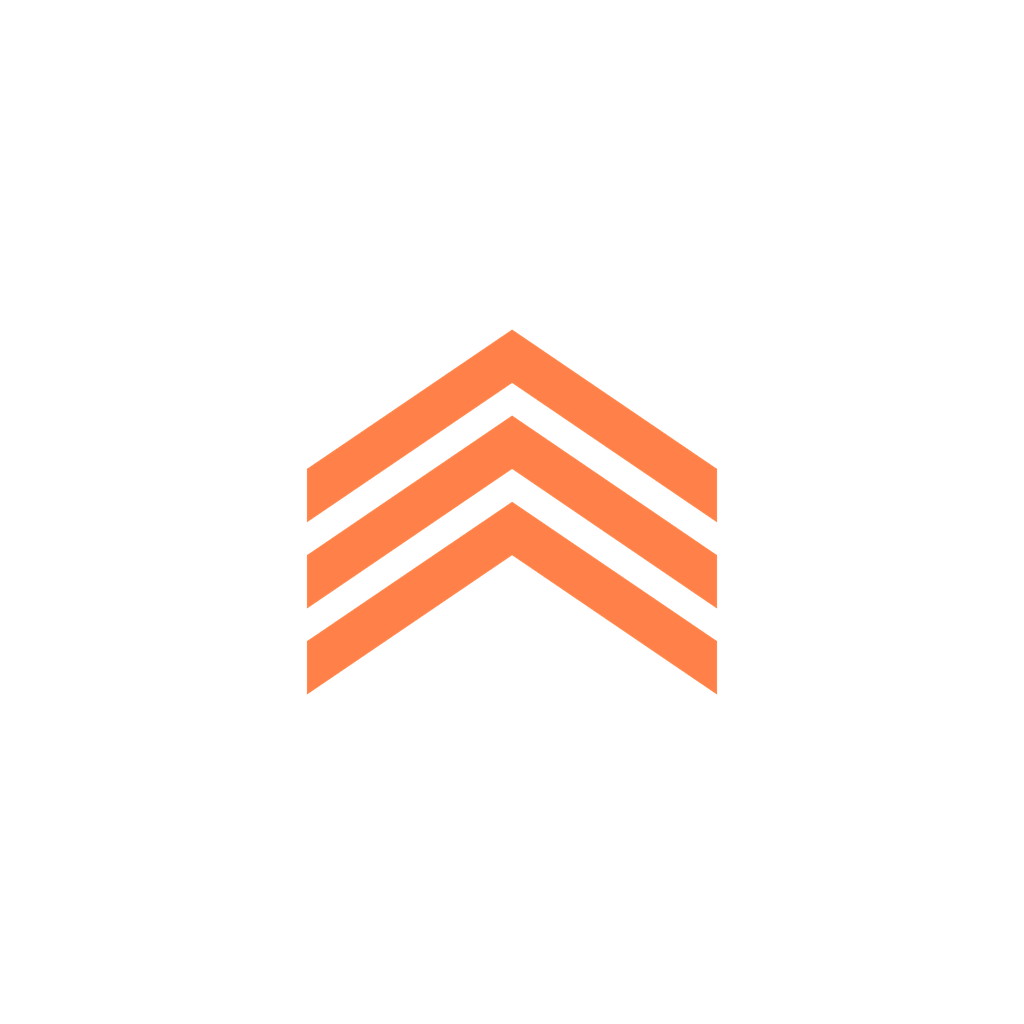
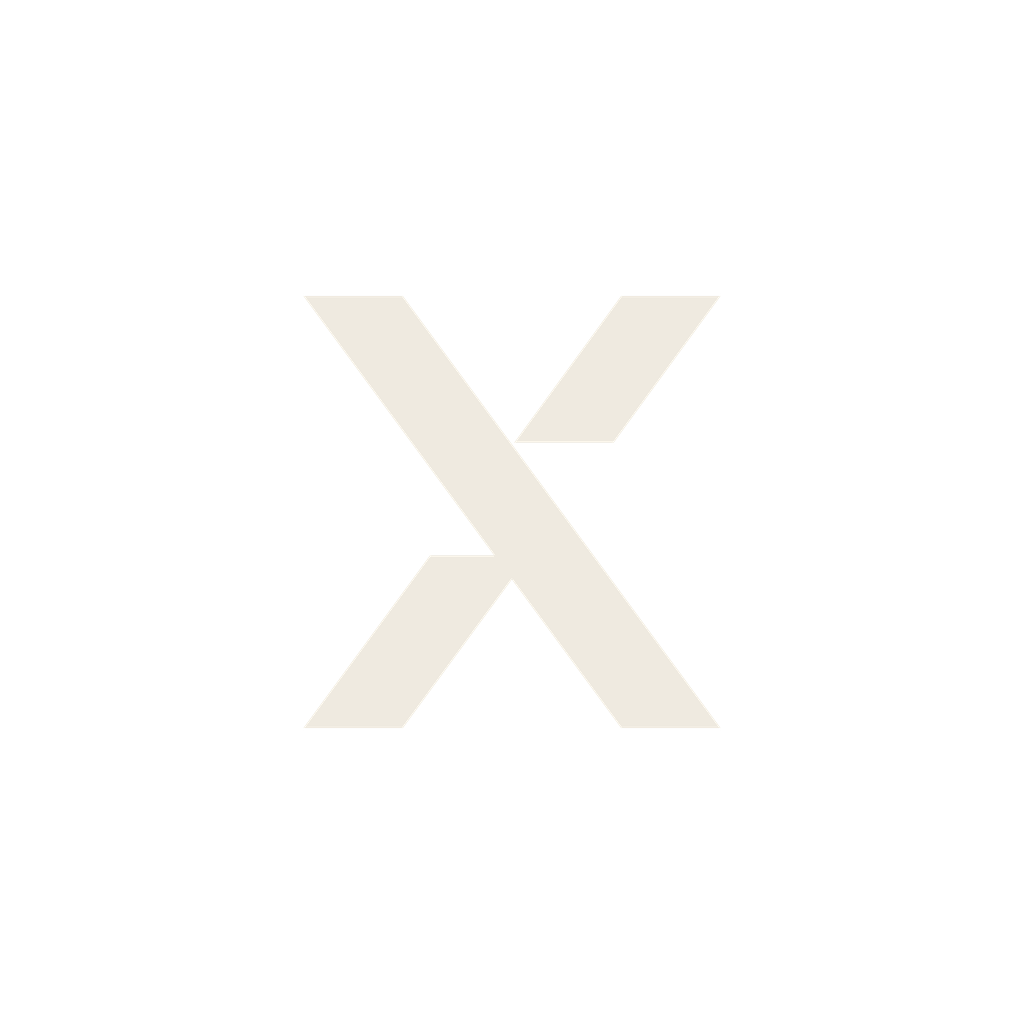
Marca INPHAX: Missão EEAR, um curso INPHAX
- Paleta preto, off-white e vermelho (#C8102E no claro, #FF4D5A no escuro),
  com o topo preto nos dois temas, o X e o logotipo INPHAX.
- Ícones do site e do app gerados do X em vetor (web/icones/gerar_icones.py).
- Página de entrada, rodapé e certificado com a marca (emitido pela INPHAX).
- Inglês passa a roxo, para não se confundir com o vermelho da marca.

Claude-Session: https://claude.ai/code/session_01PvJMkPWWFzBkqjvnPEBZ7K

Changed region(s): [[0.2812, 0.2812, 0.7188, 0.7188]]

diff --git a/curso/index.html b/curso/index.html
@@ -6,23 +6,25 @@
 <style>
 /* Layout: app de estudo mobile-first — cabeçalho tipo painel de voo, conteúdo em coluna única (máx. 760px), barra de abas fixa embaixo no celular e no topo em telas largas. */
 :root {
-  --bg: #EDF1F6;
+  --bg: #F3F1EC;
   --surface: #FFFFFF;
-  --surface-2: #F5F8FB;
-  --ink: #0E1F36;
-  --muted: #56667C;
-  --line: #D2DBE6;
-  --accent: #C2410C;
-  --accent-soft: #FBE7DC;
+  --surface-2: #F7F5F0;
+  --ink: #0C0C0C;
+  --muted: #5F5B54;
+  --line: #DEDAD1;
+  --accent: #C8102E;
+  --accent-soft: #FBE4E7;
   --on-accent: #FFFFFF;
+  /* topo com a marca INPHAX: preto nos dois temas */
+  --top-bg: #0C0C0C; --top-ink: #EFEAE0; --top-muted: #A39E94; --top-accent: #FF4D5A; --top-line: #262421;
   --ok: #19744A;
   --ok-soft: #DDF2E6;
-  --bad: #B42318;
+  --bad: #A8201A;
   --bad-soft: #FBE4E1;
   --warn: #9A5B00;
   --warn-soft: #FBEFD6;
   --por: #2F55C9;
-  --ing: #A23A68;
+  --ing: #7A3FC4;
   --mat: #0E766F;
   --fis: #8C5F00;
   --display: "Saira Condensed", "Arial Narrow", "Roboto Condensed", sans-serif;
@@ -33,34 +35,38 @@
 }
 @media (prefers-color-scheme: dark) {
   :root:not([data-theme="light"]) {
-    --bg: #0A1424; --surface: #111D31; --surface-2: #16243B; --ink: #E4EBF5; --muted: #93A2B7; --line: #24344D;
-    --accent: #FF8048; --accent-soft: #3A2117; --on-accent: #1A0D06;
+    --bg: #0C0C0C; --surface: #151515; --surface-2: #1D1D1D; --ink: #EFEAE0; --muted: #A39E94; --line: #2B2926;
+    --accent: #FF4D5A; --accent-soft: #3A1418; --on-accent: #160304;
     --ok: #46C98A; --ok-soft: #12301F; --bad: #FF7466; --bad-soft: #3A1714; --warn: #F0B54A; --warn-soft: #33270F;
-    --por: #8AA8FF; --ing: #EE8DB9; --mat: #4FD0C4; --fis: #E9BC52;
+    --por: #8AA8FF; --ing: #B79BFF; --mat: #4FD0C4; --fis: #E9BC52;
     color-scheme: dark;
   }
 }
 :root[data-theme="dark"] {
-  --bg: #0A1424; --surface: #111D31; --surface-2: #16243B; --ink: #E4EBF5; --muted: #93A2B7; --line: #24344D;
-  --accent: #FF8048; --accent-soft: #3A2117; --on-accent: #1A0D06;
+  --bg: #0C0C0C; --surface: #151515; --surface-2: #1D1D1D; --ink: #EFEAE0; --muted: #A39E94; --line: #2B2926;
+  --accent: #FF4D5A; --accent-soft: #3A1418; --on-accent: #160304;
   --ok: #46C98A; --ok-soft: #12301F; --bad: #FF7466; --bad-soft: #3A1714; --warn: #F0B54A; --warn-soft: #33270F;
-  --por: #8AA8FF; --ing: #EE8DB9; --mat: #4FD0C4; --fis: #E9BC52;
+  --por: #8AA8FF; --ing: #B79BFF; --mat: #4FD0C4; --fis: #E9BC52;
   color-scheme: dark;
 }
 * { box-sizing: border-box; }
 html { -webkit-text-size-adjust: 100%; }
 body { background: var(--bg); color: var(--ink); font-family: var(--body); font-size: 16px; line-height: 1.5; }
-body::before { content: ""; position: fixed; inset: 0 0 auto; height: env(safe-area-inset-top, 0px); z-index: 10; background: var(--surface); }
+body::before { content: ""; position: fixed; inset: 0 0 auto; height: env(safe-area-inset-top, 0px); z-index: 10; background: var(--top-bg); }
 button, input, select, textarea { font: inherit; color: inherit; }
 :focus-visible { outline: 3px solid var(--accent); outline-offset: 2px; }
 a { color: var(--accent); }
 
-.top { position: sticky; top: env(safe-area-inset-top, 0px); z-index: 9; background: var(--surface); border-bottom: 1px solid var(--line); }
+.top { position: sticky; top: env(safe-area-inset-top, 0px); z-index: 9; background: var(--top-bg); color: var(--top-ink); border-bottom: 1px solid var(--top-line); }
 .top-in { max-width: 760px; margin: 0 auto; padding-block: 10px; padding-left: max(16px, env(safe-area-inset-left, 0px)); padding-right: max(16px, env(safe-area-inset-right, 0px)); display: flex; align-items: center; gap: 12px; }
 .brand { font-family: var(--display); font-weight: 700; font-size: 1.45rem; letter-spacing: .04em; line-height: 1; text-transform: uppercase; }
-.brand small { display: block; font-family: var(--body); font-weight: 500; font-size: .72rem; letter-spacing: .06em; color: var(--muted); margin-top: 3px; text-transform: uppercase; }
-.tminus { margin-left: auto; text-align: right; font-family: var(--mono); font-size: .78rem; color: var(--muted); line-height: 1.25; white-space: nowrap; }
-.tminus b { display: block; font-size: 1.15rem; color: var(--accent); letter-spacing: .02em; }
+.brand small { display: flex; align-items: center; gap: 5px; font-family: var(--body); font-weight: 500; font-size: .7rem; letter-spacing: .06em; color: var(--top-muted); margin-top: 4px; text-transform: lowercase; }
+.brand-x { width: 30px; height: 30px; flex: none; border-radius: 6px; }
+/* logotipo INPHAX: a imagem vira máscara e pega a cor do texto */
+.marca { display: inline-block; height: .78em; aspect-ratio: 440 / 65; background: currentColor; -webkit-mask: url(marca/inphax.png) center / contain no-repeat; mask: url(marca/inphax.png) center / contain no-repeat; vertical-align: -.04em; }
+.brand .marca { color: var(--top-ink); height: 9px; }
+.tminus { margin-left: auto; text-align: right; font-family: var(--mono); font-size: .78rem; color: var(--top-muted); line-height: 1.25; white-space: nowrap; }
+.tminus b { display: block; font-size: 1.15rem; color: var(--top-accent); letter-spacing: .02em; }
 
 .wrap { max-width: 760px; margin: 0 auto; padding-block: 18px calc(var(--nav-h) + 28px + env(safe-area-inset-bottom, 0px)); padding-left: max(16px, env(safe-area-inset-left, 0px)); padding-right: max(16px, env(safe-area-inset-right, 0px)); display: flex; flex-direction: column; gap: 16px; }
 
@@ -256,20 +262,26 @@ sup, sub { line-height: 0; }
 .tprog > i { display: block; height: 100%; background: var(--sc, var(--accent)); }
 .cont { border-left: 4px solid var(--sc, var(--accent)); }
 /* Certificado */
-.cert { background: #fff; color: #0E1F36; border: 2px solid #0E1F36; border-radius: 6px; padding: 10px; }
-.cert-in { border: 1px solid #C2410C; border-radius: 3px; padding: 28px 22px; display: flex; flex-direction: column; gap: 12px; text-align: center; align-items: center; }
-.cert .eyebrow { color: #C2410C; letter-spacing: .2em; }
+.cert { background: #fff; color: #0C0C0C; border: 2px solid #0C0C0C; border-radius: 6px; padding: 10px; }
+.cert-in { border: 1px solid #C8102E; border-radius: 3px; padding: 28px 22px; display: flex; flex-direction: column; gap: 12px; text-align: center; align-items: center; }
+.cert .eyebrow { color: #C8102E; letter-spacing: .2em; }
 .cert-marca { display: flex; align-items: center; gap: 8px; font-family: var(--display); font-weight: 700; font-size: 1.2rem; letter-spacing: .08em; text-transform: uppercase; }
-.cert-marca svg { width: 30px; height: 30px; fill: #C2410C; }
-.cert-cert { margin: 6px 0 0; color: #56667C; }
-.cert-nome { font-family: var(--display); font-weight: 700; font-size: clamp(1.7rem, 6vw, 2.6rem); line-height: 1.05; margin: 0; border-bottom: 1px solid #D2DBE6; padding: 0 12px 8px; }
+.cert-marca svg { width: 34px; height: 34px; border-radius: 6px; }
+.cert-por { display: flex; align-items: center; gap: 6px; font-size: .78rem; color: #5F5B54; margin-top: -6px; }
+.cert-por .marca, .cert-ass .marca { color: #0C0C0C; height: 10px; }
+.cert-ass { display: flex; flex-direction: column; align-items: center; gap: 4px; margin-top: 10px; padding-top: 10px; border-top: 1px solid #DEDAD1; min-width: 180px; font-size: .72rem; color: #5F5B54; }
+.cert-ass .marca { height: 14px; }
+.cert-cert { margin: 6px 0 0; color: #5F5B54; }
+.cert-nome { font-family: var(--display); font-weight: 700; font-size: clamp(1.7rem, 6vw, 2.6rem); line-height: 1.05; margin: 0; border-bottom: 1px solid #DEDAD1; padding: 0 12px 8px; }
 .cert-txt { margin: 0; max-width: 560px; line-height: 1.55; }
 .cert-dados { display: grid; grid-template-columns: repeat(auto-fit, minmax(130px, 1fr)); gap: 12px; width: 100%; max-width: 560px; margin-top: 6px; }
 .cert-dados div { display: flex; flex-direction: column; gap: 2px; }
-.cert-dados .lab { font-size: .7rem; font-weight: 700; letter-spacing: .08em; text-transform: uppercase; color: #56667C; }
-.cert-nota { margin: 6px 0 0; font-size: .75rem; color: #56667C; }
+.cert-dados .lab { font-size: .7rem; font-weight: 700; letter-spacing: .08em; text-transform: uppercase; color: #5F5B54; }
+.cert-nota { margin: 6px 0 0; font-size: .75rem; color: #5F5B54; }
 /* Página de entrada */
 .hero { display: flex; flex-direction: column; gap: 14px; padding: 8px 0 4px; }
+.hero-marca { display: flex; align-items: center; gap: 8px; font-size: .78rem; color: var(--muted); letter-spacing: .04em; }
+.hero-marca .marca { height: 15px; color: var(--ink); }
 .hero-t { font-family: var(--display); font-weight: 700; font-size: clamp(2rem, 7vw, 2.9rem); line-height: 1.02; margin: 0; }
 .hero-p { margin: 0; font-size: 1.05rem; color: var(--muted); max-width: 620px; }
 .hero-f { display: flex; gap: 10px; align-items: flex-end; flex-wrap: wrap; }
@@ -360,7 +372,8 @@ details.rev[open] summary { margin-bottom: 8px; }
 
 <header class="top">
   <div class="top-in">
-    <div class="brand">Missão EEAR<small>Curso preparatório CFS</small></div>
+    <svg class="brand-x" viewBox="0 0 512 512" aria-hidden="true"><rect width="512" height="512" rx="56" fill="#1A1918"/><g fill="#EFEAE0"><path d="M88 82H168L424 430H344Z"/><path d="M344 82H424L338 200H258Z"/><path d="M190 291H270L168 430H88Z"/></g></svg>
+    <div class="brand">Missão EEAR<small>um curso <span class="marca" role="img" aria-label="INPHAX"></span></small></div>
     <div class="tminus" id="tminus"></div>
   </div>
 </header>

diff --git a/curso/app.js b/curso/app.js
@@ -627,7 +627,7 @@
   function vInicio() {
     const nQ = MODS.reduce((a, m) => a + m.q.length, 0), nV = Object.values(VA).reduce((a, v) => a + v.filter(x => x.k !== 'y').length, 0);
     const nOf = PROVAS.reduce((a, p) => a + p.ids.length, 0);
-    let h = `<section class="hero"><div class="eyebrow">Curso preparatório gratuito</div>
+    let h = `<section class="hero"><div class="hero-marca">${MARCA}<span>apresenta</span></div><div class="eyebrow">Curso preparatório gratuito</div>
       <h1 class="hero-t">Sua aprovação no CFS da EEAR começa aqui</h1>
       <p class="hero-p">Aulas com vídeo, teoria resumida, questões comentadas, flashcards, simulados e as provas oficiais da EEAR com gabarito, num plano de estudos que vai até o dia da prova.</p>
       <form class="hero-f" onsubmit="return false"><div class="field"><label for="ini-nome">Como você quer ser chamado?</label><input id="ini-nome" maxlength="80" autocomplete="name" placeholder="Seu nome"></div><button class="btn pri" data-a="comecar">Começar o curso</button></form>
@@ -641,7 +641,7 @@
       <div class="card"><div class="eyebrow">Certificado</div><p style="margin:0">Ao concluir todas as aulas de uma matéria, você recebe o certificado de conclusão dela.</p></div>
     </section>`;
     h += cartaoConta();
-    h += `<p class="small muted" style="margin:0">Curso livre de estudo, sem vínculo com a EEAR ou com a Força Aérea Brasileira. As videoaulas são vídeos gratuitos do YouTube, com o crédito de cada canal.</p>`;
+    h += `<p class="small muted" style="margin:0">Missão EEAR é um curso da INPHAX. Curso livre de estudo, sem vínculo com a EEAR ou com a Força Aérea Brasileira. As videoaulas são vídeos gratuitos do YouTube, com o crédito de cada canal.</p>`;
     return h;
   }
   /* Continuar de onde parei: a última aula aberta, ou a próxima do plano de hoje, ou a primeira ainda não concluída. */
@@ -782,7 +782,9 @@
       <p class="small" style="margin:0">${ok ? `Você concluiu ${s === 'geral' ? 'todas as aulas das quatro matérias' : 'todas as aulas desta matéria'} com 80% ou mais no quiz.` : `Conclua as ${ms.length} aulas ${s === 'geral' ? 'das quatro matérias ' : ''}com 80% ou mais no quiz para liberar o certificado. Faltam ${ms.length - feitas}.`}</p>
       ${ok ? `<div class="row"><button class="btn pri" data-a="cert" data-s="${s}">Ver o certificado</button></div>` : ''}</section>`;
   }
-  const DIVISAS = '<svg viewBox="0 0 64 64" aria-hidden="true"><path d="M8 30 32 14l24 16v8L32 22 8 38z"/><path d="M8 42l24-16 24 16v8L32 34 8 50z" opacity=".85"/><path d="M8 54l24-16 24 16v6L32 46 8 60z" opacity=".7"/></svg>';
+  /* X da INPHAX, em vetor */
+  const MARCA_X = '<svg viewBox="0 0 512 512" aria-hidden="true"><rect width="512" height="512" rx="40" fill="#0C0C0C"/><g fill="#EFEAE0"><path d="M88 82H168L424 430H344Z"/><path d="M344 82H424L338 200H258Z"/><path d="M190 291H270L168 430H88Z"/></g></svg>';
+  const MARCA = '<span class="marca" role="img" aria-label="INPHAX"></span>';
   function vCert() {
     const s = V.s, geral = s === 'geral', ms = geral ? MODS : (MATS[s] ? aulasDe(s) : []);
     let h = `<button class="btn ghost back no-print" ${geral ? 'data-a="tab" data-v="hoje"' : `data-a="mat" data-s="${s}"`}>← Voltar</button>`;
@@ -793,12 +795,14 @@
     const horas = Math.round(ms.reduce((a, m) => a + m.h, 0)), data = concluidoEm(ms);
     const cod = codigoCert([S.cfg.nome, s, data].join('|'));
     h += `<article class="cert" id="cert"><div class="cert-in">
-      <div class="cert-marca">${DIVISAS}<span>Missão EEAR</span></div>
+      <div class="cert-marca">${MARCA_X}<span>Missão EEAR</span></div>
+      <div class="cert-por">um curso ${MARCA}</div>
       <div class="eyebrow">Certificado de conclusão</div>
       <p class="cert-cert">Certificamos que</p>
       <h1 class="cert-nome">${esc(S.cfg.nome)}</h1>
       <p class="cert-txt">concluiu ${geral ? 'o <b>curso preparatório completo para o CFS da EEAR</b>, nas quatro matérias da prova (Língua Portuguesa, Língua Inglesa, Matemática e Física)' : `a matéria <b>${MATS[s].nome}</b> do curso preparatório para o CFS da EEAR`}, com ${ms.length} aulas e nota de pelo menos 80% no quiz de cada uma.</p>
       <div class="cert-dados"><div><span class="lab">Carga horária</span><b>${horas} horas</b></div><div><span class="lab">Concluído em</span><b>${dataLonga(data)}</b></div><div><span class="lab">Código</span><b class="num">${cod}</b></div></div>
+      <div class="cert-ass"><span class="marca" role="img" aria-label="INPHAX"></span><span>emitido pela INPHAX</span></div>
       <p class="cert-nota">Curso livre de estudo, sem vínculo com a EEAR ou com a Força Aérea Brasileira. Não tem validade acadêmica.</p>
     </div></article>
     <div class="row no-print"><button class="btn pri" data-a="imprimir">Imprimir ou salvar em PDF</button><button class="btn" data-a="certnomeedit">Corrigir o nome</button></div>`;

diff --git a/web/icones/gerar_icones.py b/web/icones/gerar_icones.py
@@ -1,24 +1,20 @@
-"""Gera os ícones do site e do app (três divisas de sargento sobre azul-marinho).
+"""Gera os ícones do site e do app a partir do X da INPHAX (em vetor).
 Uso: python3 web/icones/gerar_icones.py"""
 import os
 from PIL import Image, ImageDraw
 
 AQUI = os.path.dirname(os.path.abspath(__file__))
 APP = os.path.join(AQUI, '..', '..', 'app', 'assets')
-FUNDO, DIVISA = (14, 31, 54), (255, 128, 72)
+FUNDO, TRACO = (12, 12, 12), (239, 234, 224)
 SS = 4  # supersampling para bordas suaves
+# os três traços do X, no quadro de 512 x 512 do ícone original
+X = [[(88, 82), (168, 82), (424, 430), (344, 430)],
+     [(344, 82), (424, 82), (338, 200), (258, 200)],
+     [(190, 291), (270, 291), (168, 430), (88, 430)]]
 
 
-def divisas(d, cx, cy, escala):
-    """Três divisas (^) empilhadas, centradas em (cx, cy); escala = largura total."""
-    w, h, t, gap = escala / 2, escala * 0.34, escala * 0.13, escala * 0.21
-    topo = cy - (h + 2 * gap + t) / 2
-    for k in range(3):
-        y = topo + k * gap
-        d.polygon([(cx - w, y + h), (cx, y), (cx + w, y + h), (cx + w, y + h + t), (cx, y + t), (cx - w, y + h + t)], fill=DIVISA)
-
-
-def icone(lado, conteudo=0.62, raio=0.0, fundo=True):
+def icone(lado, escala=1.0, raio=0.0, fundo=True):
+    """escala 1 = mesmo tamanho do X no ícone original; raio em fração do lado."""
     L = lado * SS
     im = Image.new('RGBA', (L, L), (0, 0, 0, 0))
     d = ImageDraw.Draw(im)
@@ -27,22 +23,25 @@ def icone(lado, conteudo=0.62, raio=0.0, fundo=True):
             d.rounded_rectangle([0, 0, L - 1, L - 1], radius=int(L * raio), fill=FUNDO)
         else:
             d.rectangle([0, 0, L, L], fill=FUNDO)
-    divisas(d, L / 2, L / 2, L * conteudo)
+    k = escala * L / 512
+    for poli in X:
+        d.polygon([((x - 256) * k + L / 2, (y - 256) * k + L / 2) for x, y in poli], fill=TRACO)
     return im.resize((lado, lado), Image.LANCZOS)
 
 
-icone(192, raio=0.22).save(os.path.join(AQUI, 'icone-192.png'))
-icone(512, raio=0.22).save(os.path.join(AQUI, 'icone-512.png'))
-icone(512, conteudo=0.48).save(os.path.join(AQUI, 'icone-maskable-512.png'))  # área segura do Android
-icone(180).convert('RGB').save(os.path.join(AQUI, 'apple-touch-icon.png'))
-icone(64, raio=0.22).save(os.path.join(AQUI, 'favicon.png'))
+icone(192, raio=0.2).save(os.path.join(AQUI, 'icone-192.png'))
+icone(512, raio=0.2).save(os.path.join(AQUI, 'icone-512.png'))
+icone(512, escala=0.78).save(os.path.join(AQUI, 'icone-maskable-512.png'))  # área segura do Android
+icone(180, escala=0.9).convert('RGB').save(os.path.join(AQUI, 'apple-touch-icon.png'))
+icone(64, escala=1.08, raio=0.2).save(os.path.join(AQUI, 'favicon.png'))
 # fontes para o @capacitor/assets (ícones e telas de abertura do app)
 os.makedirs(APP, exist_ok=True)
 icone(1024).convert('RGB').save(os.path.join(APP, 'icon-only.png'))
-icone(1024, conteudo=0.40, fundo=False).save(os.path.join(APP, 'icon-foreground.png'))
+icone(1024, escala=0.62, fundo=False).save(os.path.join(APP, 'icon-foreground.png'))
 Image.new('RGB', (1024, 1024), FUNDO).save(os.path.join(APP, 'icon-background.png'))
+marca = icone(600, fundo=False)
 for nome in ('splash.png', 'splash-dark.png'):
     s = Image.new('RGB', (2732, 2732), FUNDO)
-    s.paste(icone(600, conteudo=0.62, fundo=False), (1066, 1066), icone(600, conteudo=0.62, fundo=False))
+    s.paste(marca, (1066, 1066), marca)
     s.save(os.path.join(APP, nome))
 print('ok')

diff --git a/web/build.py b/web/build.py
@@ -15,9 +15,9 @@ OUT = os.path.abspath(args[0] if args else os.path.join(RAIZ, '_site'))
 REPO = os.environ.get('GITHUB_REPOSITORY', 'YNPHAX/EEAR')
 APK = f'https://github.com/{REPO}/releases/latest/download/missao-eear.apk'
 
-NOME, CURTO = 'Missão EEAR · curso CFS', 'Missão EEAR'
-DESC = 'Curso preparatório para o CFS da EEAR: plano de estudos até a prova, teoria, quizzes, flashcards, simulados e provas oficiais com gabarito.'
-TEMA_CLARO, TEMA_ESCURO, FUNDO = '#FFFFFF', '#111D31', '#EDF1F6'
+NOME, CURTO = 'Missão EEAR · INPHAX', 'Missão EEAR'
+DESC = 'Curso preparatório da INPHAX para o CFS da EEAR: aulas com vídeo, plano de estudos até a prova, quizzes, flashcards, simulados e provas oficiais com gabarito.'
+TEMA_CLARO, TEMA_ESCURO, FUNDO = '#0C0C0C', '#0C0C0C', '#0C0C0C'
 
 if os.path.exists(OUT):
     shutil.rmtree(OUT)
@@ -79,6 +79,8 @@ for raiz, _, fs in os.walk(os.path.join(CURSO, 'provas')):
             rel = os.path.relpath(os.path.join(raiz, f), CURSO)
             copiar(os.path.join(raiz, f), os.path.join(OUT, rel))
             imgs.append(rel)
+for f in sorted(os.listdir(os.path.join(CURSO, 'marca'))):
+    copiar(os.path.join(CURSO, 'marca', f), os.path.join(OUT, 'marca', f))
 for pasta, ext in (('fontes', ('.woff2', '.css', '.txt')), ('icones', ('.png',))):
     for f in sorted(os.listdir(os.path.join(WEB, pasta))):
         if f.endswith(ext):
